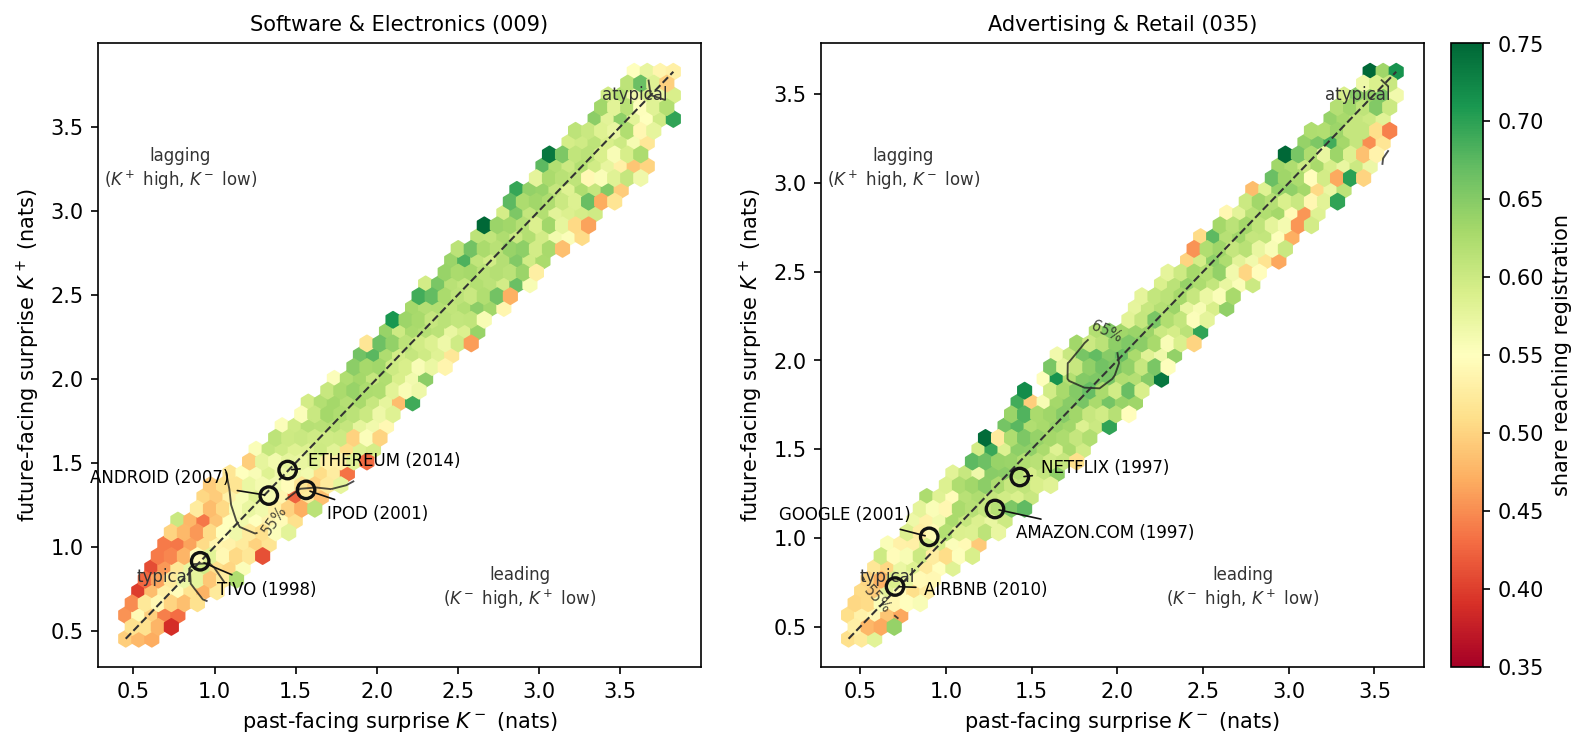
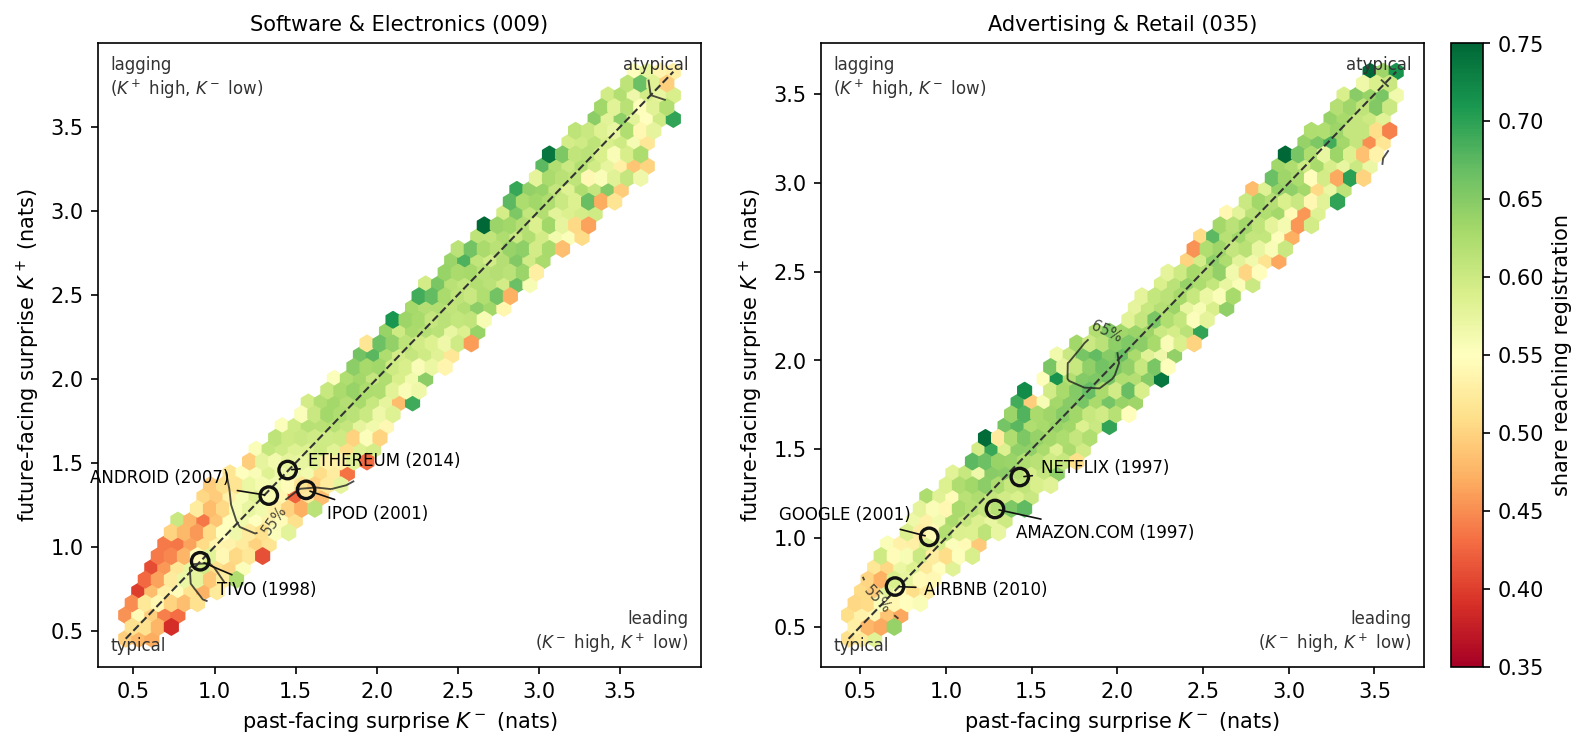
registration plane: corner labels flush at their corners, uniform padding
Claude-Session: https://claude.ai/code/session_01PBpAzZdgWomwW5RVnHr4vP

diff --git a/scripts/fig_registration_only.py b/scripts/fig_registration_only.py
@@ -155,13 +155,14 @@ def main() -> int:
             ax.annotate(label, (r["topic_kl_vs_past"], r["topic_kl_vs_future"]),
                         xytext=(ox, oy), textcoords="offset points", fontsize=8,
                         arrowprops=dict(arrowstyle="-", lw=0.8, color="#111"))
-        span = hi - lo
-        ax.text(lo + 0.72 * span, lo + 0.06 * span, "leading\n($K^-$ high, $K^+$ low)",
-                fontsize=8, color="#333", ha="center")
-        ax.text(lo + 0.10 * span, lo + 0.80 * span, "lagging\n($K^+$ high, $K^-$ low)",
-                fontsize=8, color="#333", ha="center")
-        ax.text(lo + 0.02 * span, lo + 0.10 * span, "typical", fontsize=8, color="#333")
-        ax.text(lo + 0.87 * span, lo + 0.95 * span, "atypical", fontsize=8, color="#333")
+        ax.text(0.98, 0.02, "leading\n($K^-$ high, $K^+$ low)", fontsize=8,
+                color="#333", ha="right", va="bottom", transform=ax.transAxes)
+        ax.text(0.02, 0.98, "lagging\n($K^+$ high, $K^-$ low)", fontsize=8,
+                color="#333", ha="left", va="top", transform=ax.transAxes)
+        ax.text(0.02, 0.02, "typical", fontsize=8, color="#333",
+                ha="left", va="bottom", transform=ax.transAxes)
+        ax.text(0.98, 0.98, "atypical", fontsize=8, color="#333",
+                ha="right", va="top", transform=ax.transAxes)
         ax.set_xlabel("past-facing surprise $K^-$ (nats)")
         ax.set_ylabel("future-facing surprise $K^+$ (nats)")
         ax.set_title({"009": "Software & Electronics (009)", "035": "Advertising & Retail (035)"}[c], fontsize=10)
